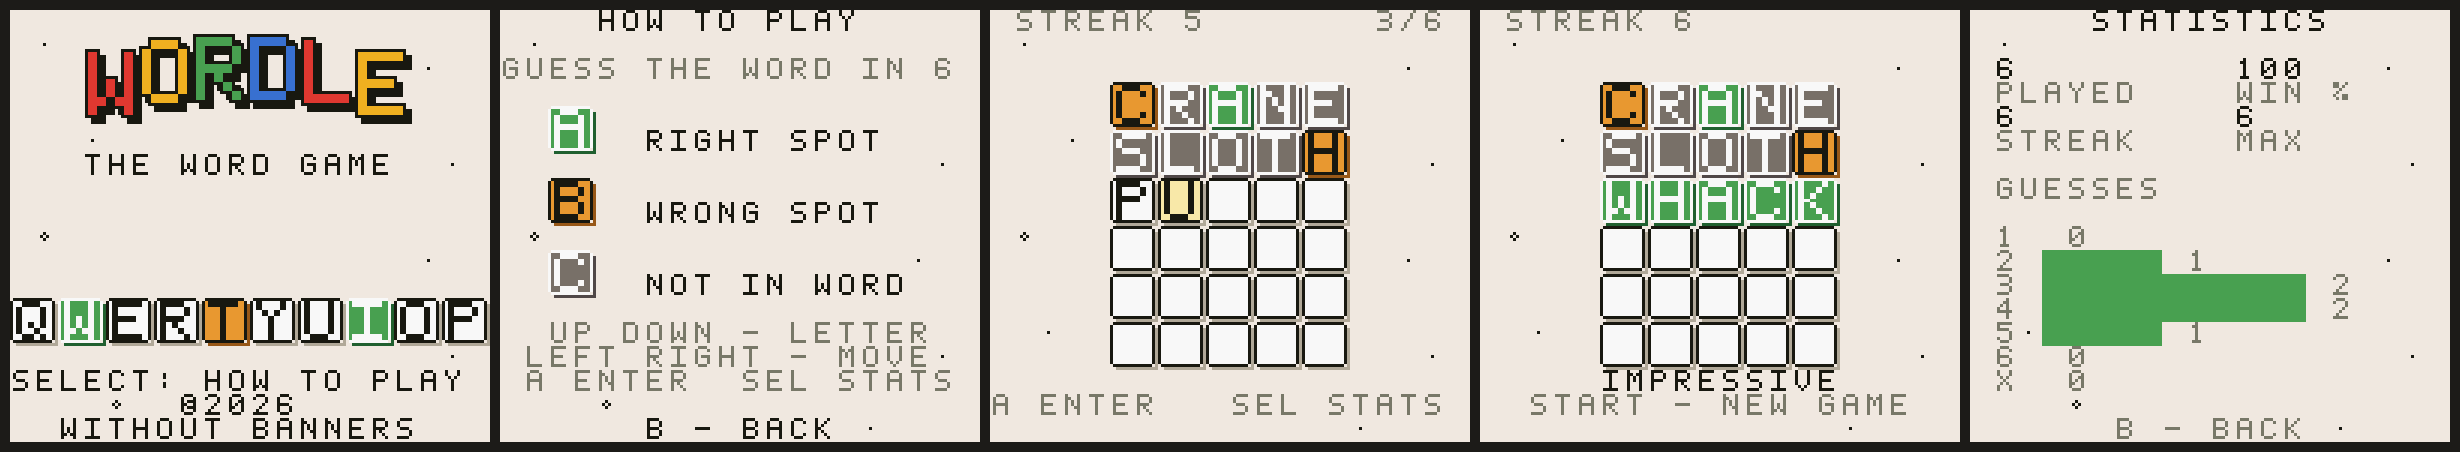
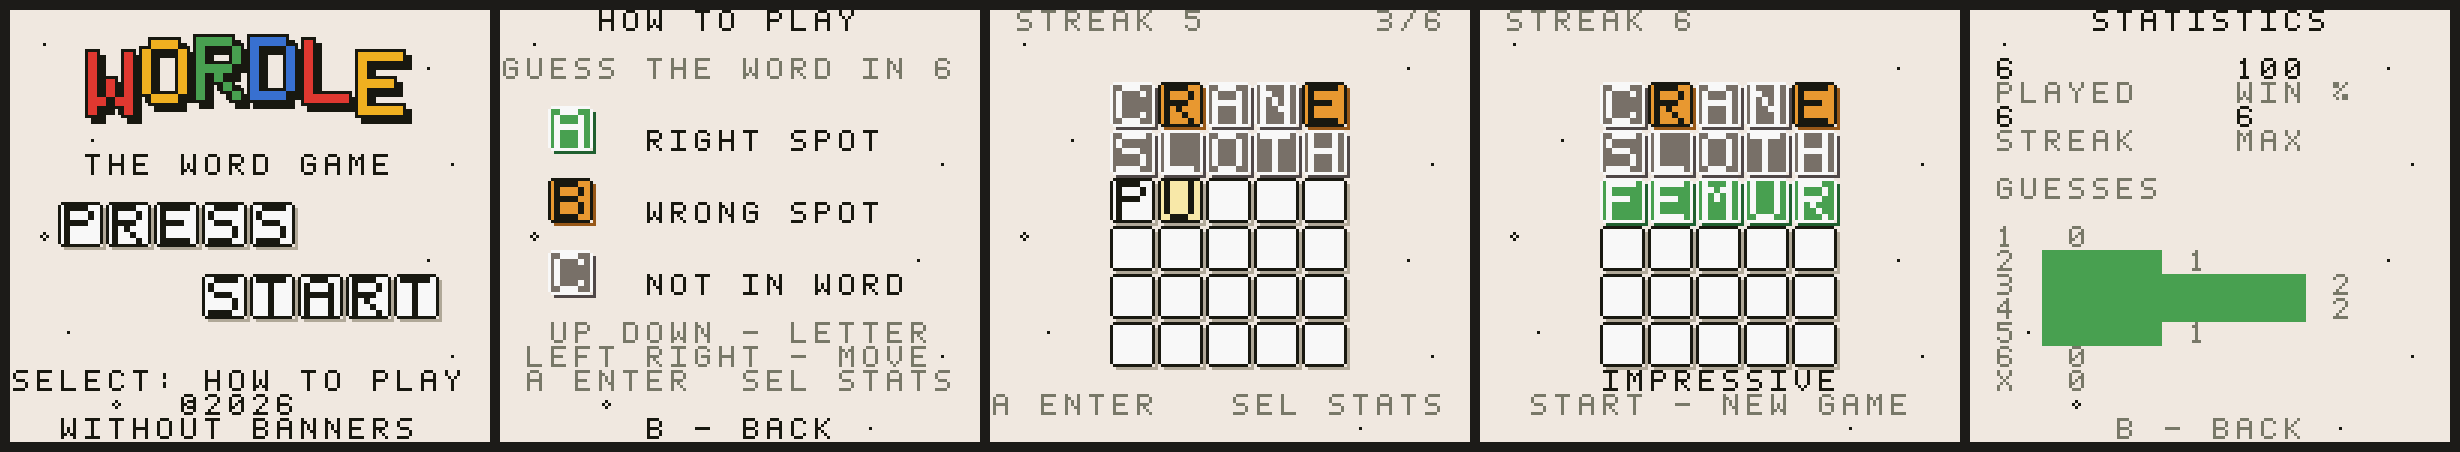
Title: PRESS START as pulsing keycap blocks, drop the QWERTY row
A QWERTY ridge implied a keyboard on a game whose identity is not
having one. The prompt itself is now the ground band - PRESS / START
spelled in staggered keycaps, pulsing green on the title loop.

Claude-Session: https://claude.ai/code/session_01KTpzkRtXxxRbc1ZKsxXH5Z

diff --git a/src/main.c b/src/main.c
@@ -356,20 +356,21 @@ static void title_draw(void) {
 
     render_text_centered(6, "THE WORD GAME", PAL_TEXT);
 
-    {
-        static const char qwerty[10] =
-            { 'Q', 'W', 'E', 'R', 'T', 'Y', 'U', 'I', 'O', 'P' };
-        static const uint8_t kpal[10] = {
-            PAL_EMPTY, PAL_GREEN, PAL_EMPTY, PAL_EMPTY, PAL_YELLOW,
-            PAL_EMPTY, PAL_EMPTY, PAL_GREEN, PAL_EMPTY, PAL_EMPTY
-        };
-        for (uint8_t i = 0; i < 10; i++)
-            render_key((uint8_t)(i * 2), 12, (uint8_t)(qwerty[i] - 'A'), kpal[i]);
-    }
-
     render_text_centered(15, "SELECT: HOW TO PLAY", PAL_TEXT);
     render_text_centered(16, "@2026", PAL_TEXT);
     render_text_centered(17, "WITHOUT BANNERS", PAL_TEXT);
+}
+
+// PRESS / START spelled in the game's own keycaps, staggered like the word
+// blocks on era title screens. The pair pulses green on the title loop -
+// the prompt is the decoration, instead of a text line plus filler tiles.
+static void draw_press_start(uint8_t pal) {
+    static const char p_word[5] = { 'P', 'R', 'E', 'S', 'S' };
+    static const char s_word[5] = { 'S', 'T', 'A', 'R', 'T' };
+    for (uint8_t i = 0; i < 5; i++)
+        render_key((uint8_t)(2 + i * 2), 8, (uint8_t)(p_word[i] - 'A'), pal);
+    for (uint8_t i = 0; i < 5; i++)
+        render_key((uint8_t)(8 + i * 2), 11, (uint8_t)(s_word[i] - 'A'), pal);
 }
 
 static void title_screen(void) {
@@ -394,8 +395,7 @@ static void title_screen(void) {
         }
         seed += DIV_REG;
         if ((blink & 31) == 0) {
-            if (blink & 32) render_text_clear(4, 9, 12);
-            else render_text_centered(9, "PRESS START", PAL_TEXT);
+            draw_press_start((blink & 32) ? PAL_EMPTY : PAL_GREEN);
         }
         blink++;
         vsync();
